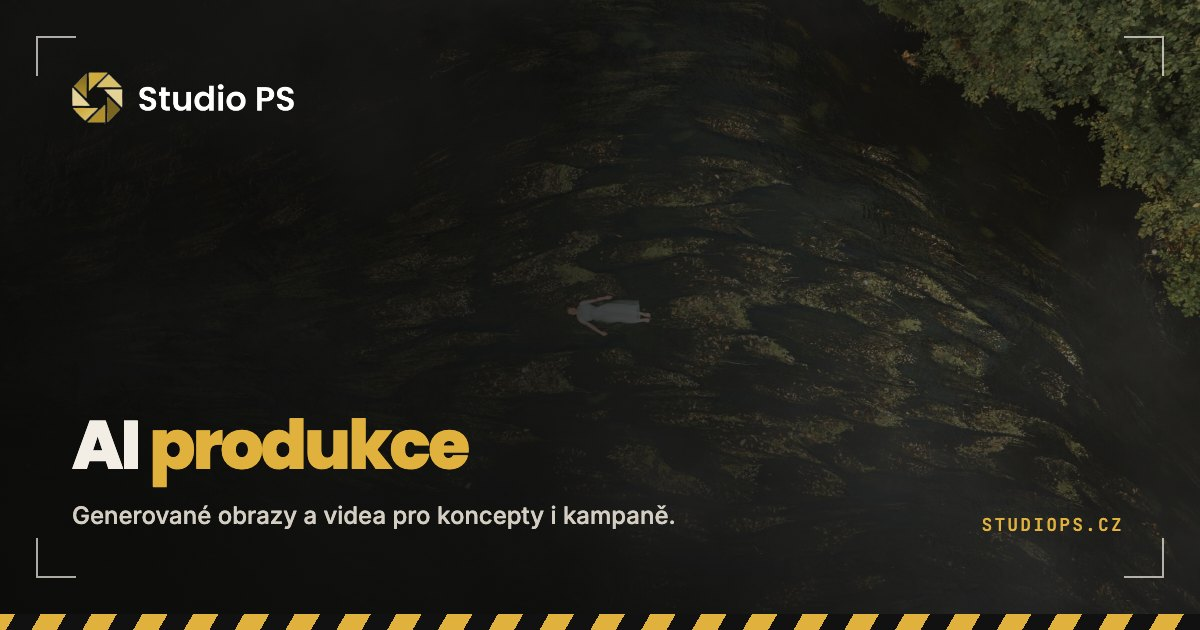
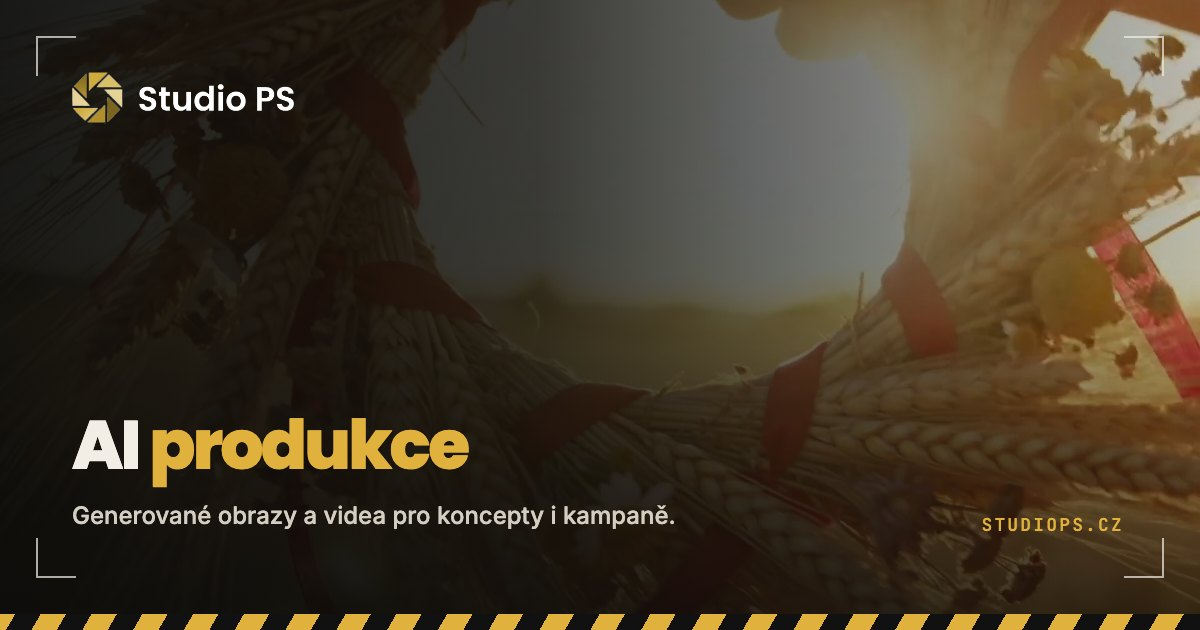
Nové fotky na dlaždicích Foto a AI, AI záběr na podstránce

diff --git a/index.html b/index.html
@@ -324,8 +324,8 @@ footer a:hover{color:var(--g)}
   <div class="nle" id="nle"><div class="ph" id="ph"></div>
     <div class="ruler"><div></div><div class="ticks"><span class="tcread" id="tcread">00:00:00:00</span><span style="left:4px">00:00</span><span style="left:20%">00:10</span><span style="left:40%">00:20</span><span style="left:60%">00:30</span><span style="left:80%">00:40</span></div></div>
     <div class="track"><div class="lab mono">V2</div><div class="lane">
-      <a class="clip" href="portrety.html" style="order:1;left:1%;width:47%"><div class="th" style="background-image:url(img/sluzby/foto/02.webp);background-position:center 35%"></div><div class="in"><small>01 · FOTO</small><b>Portréty a produkty</b><span>Studiové světlo, které ladí s vaší značkou. Pro e-shop, web, kampaně i tisk.</span></div></a>
-      <a class="clip" href="ai.html" style="order:3;left:50%;width:48%"><div class="th" style="background-image:url(img/ai.webp)"></div><div class="in"><small>03 · AI</small><b>AI produkce</b><span>Generované obrazy a videa pro koncepty, vizualizace a kampaně.</span></div></a>
+      <a class="clip" href="portrety.html" style="order:1;left:1%;width:47%"><div class="th" style="background-image:url(img/foto/11.webp);background-position:12% 30%"></div><div class="in"><small>01 · FOTO</small><b>Portréty a produkty</b><span>Studiové světlo, které ladí s vaší značkou. Pro e-shop, web, kampaně i tisk.</span></div></a>
+      <a class="clip" href="ai.html" style="order:3;left:50%;width:48%"><div class="th" style="background-image:url(img/sluzby/ai/01.webp);background-position:center 45%"></div><div class="in"><small>03 · AI</small><b>AI produkce</b><span>Generované obrazy a videa pro koncepty, vizualizace a kampaně.</span></div></a>
     </div></div>
     <div class="track"><div class="lab mono">V1</div><div class="lane">
       <a class="clip v" href="video.html" style="order:2;left:1%;width:47%"><div class="th" style="background-image:url(img/svc-video.webp)"></div><div class="in"><small>02 · VIDEO</small><b>Komerční video</b><span>Promo, aftermovie, reklama. Scénář, natáčení, střih i barvy.</span></div></a>

diff --git a/portrety.html b/portrety.html
@@ -68,7 +68,7 @@
   <div class="sec-h"><div><span class="mono k">Další služby</span><h2>Co ještě <em>umíme</em></h2></div><a class="more" href="/#studio">Pronájem studia →</a></div>
   <div class="others">
     <a class="oth" href="video.html"><div class="th" style="background-image:url(img/svc-video.webp);background-position:center"></div><div class="in"><small>02 · VIDEO</small><b>Komerční video</b><span>Promo, aftermovie, reklama. Scénář, natáčení, střih i barvy.</span></div></a>
-    <a class="oth" href="ai.html"><div class="th" style="background-image:url(img/ai.webp);background-position:center"></div><div class="in"><small>03 · AI</small><b>AI produkce</b><span>Generované obrazy a videa pro koncepty, vizualizace a kampaně.</span></div></a>
+    <a class="oth" href="ai.html"><div class="th" style="background-image:url(img/sluzby/ai/01.webp);background-position:center 45%"></div><div class="in"><small>03 · AI</small><b>AI produkce</b><span>Generované obrazy a videa pro koncepty, vizualizace a kampaně.</span></div></a>
     <a class="oth" href="podcasty.html"><div class="th" style="background-image:url(img/studio.webp);background-position:center"></div><div class="in"><small>04 · PODCAST</small><b>Podcasty</b><span>Vlastní podcastová scéna, dvě kamery a studiový zvuk.</span></div></a>
   </div>
 </section>

diff --git a/video.html b/video.html
@@ -70,7 +70,7 @@
   <div class="sec-h"><div><span class="mono k">Další služby</span><h2>Co ještě <em>umíme</em></h2></div><a class="more" href="/#studio">Pronájem studia →</a></div>
   <div class="others">
     <a class="oth" href="portrety.html"><div class="th" style="background-image:url(img/svc-foto.webp);background-position:center 18%"></div><div class="in"><small>01 · FOTO</small><b>Portréty a produkty</b><span>Studiové světlo, které ladí s vaší značkou.</span></div></a>
-    <a class="oth" href="ai.html"><div class="th" style="background-image:url(img/ai.webp);background-position:center"></div><div class="in"><small>03 · AI</small><b>AI produkce</b><span>Generované obrazy a videa pro koncepty, vizualizace a kampaně.</span></div></a>
+    <a class="oth" href="ai.html"><div class="th" style="background-image:url(img/sluzby/ai/01.webp);background-position:center 45%"></div><div class="in"><small>03 · AI</small><b>AI produkce</b><span>Generované obrazy a videa pro koncepty, vizualizace a kampaně.</span></div></a>
     <a class="oth" href="podcasty.html"><div class="th" style="background-image:url(img/studio.webp);background-position:center"></div><div class="in"><small>04 · PODCAST</small><b>Podcasty</b><span>Vlastní podcastová scéna, dvě kamery a studiový zvuk.</span></div></a>
   </div>
 </section>

diff --git a/podcasty.html b/podcasty.html
@@ -63,7 +63,7 @@
   <div class="others">
     <a class="oth" href="portrety.html"><div class="th" style="background-image:url(img/svc-foto.webp);background-position:center 18%"></div><div class="in"><small>01 · FOTO</small><b>Portréty a produkty</b><span>Studiové světlo, které ladí s vaší značkou.</span></div></a>
     <a class="oth" href="video.html"><div class="th" style="background-image:url(img/svc-video.webp);background-position:center"></div><div class="in"><small>02 · VIDEO</small><b>Komerční video</b><span>Promo, aftermovie, reklama. Scénář, natáčení, střih i barvy.</span></div></a>
-    <a class="oth" href="ai.html"><div class="th" style="background-image:url(img/ai.webp);background-position:center"></div><div class="in"><small>03 · AI</small><b>AI produkce</b><span>Generované obrazy a videa pro koncepty, vizualizace a kampaně.</span></div></a>
+    <a class="oth" href="ai.html"><div class="th" style="background-image:url(img/sluzby/ai/01.webp);background-position:center 45%"></div><div class="in"><small>03 · AI</small><b>AI produkce</b><span>Generované obrazy a videa pro koncepty, vizualizace a kampaně.</span></div></a>
   </div>
 </section>
 

diff --git a/ai.html b/ai.html
@@ -19,7 +19,7 @@
     <div class="btns"><a class="btn" href="#kontakt">Poptat AI produkci →</a><a class="btn2" href="#ukazky">Ukázky</a></div>
     <div class="specs"><div><span class="mono">Obrazy</span><b>vizuály, koncepty, vizualizace</b></div><div><span class="mono">Video</span><b>generované záběry a jejich střih</b></div><div><span class="mono">Kombinace</span><b>AI + naše foto a video</b></div></div>
   </div>
-  <div class="frame" style="--p:50% center;--pm:50% center"><img src="img/ai.webp" alt="AI produkce" fetchpriority="high"><div class="vf"><i class="a"></i><i class="b"></i><i class="c"></i><i class="d"></i></div><span class="hud mono hl">AI · Generováno</span><span class="hud mono hr">Koncept · v1</span></div>
+  <div class="frame" style="--p:50% center;--pm:50% center"><img src="img/sluzby/ai/06.webp" alt="AI produkce" fetchpriority="high"><div class="vf"><i class="a"></i><i class="b"></i><i class="c"></i><i class="d"></i></div><span class="hud mono hl">AI · Generováno</span><span class="hud mono hr">Koncept · v1</span></div>
 </section>
 
 <section class="sec" style="padding-top:0">
